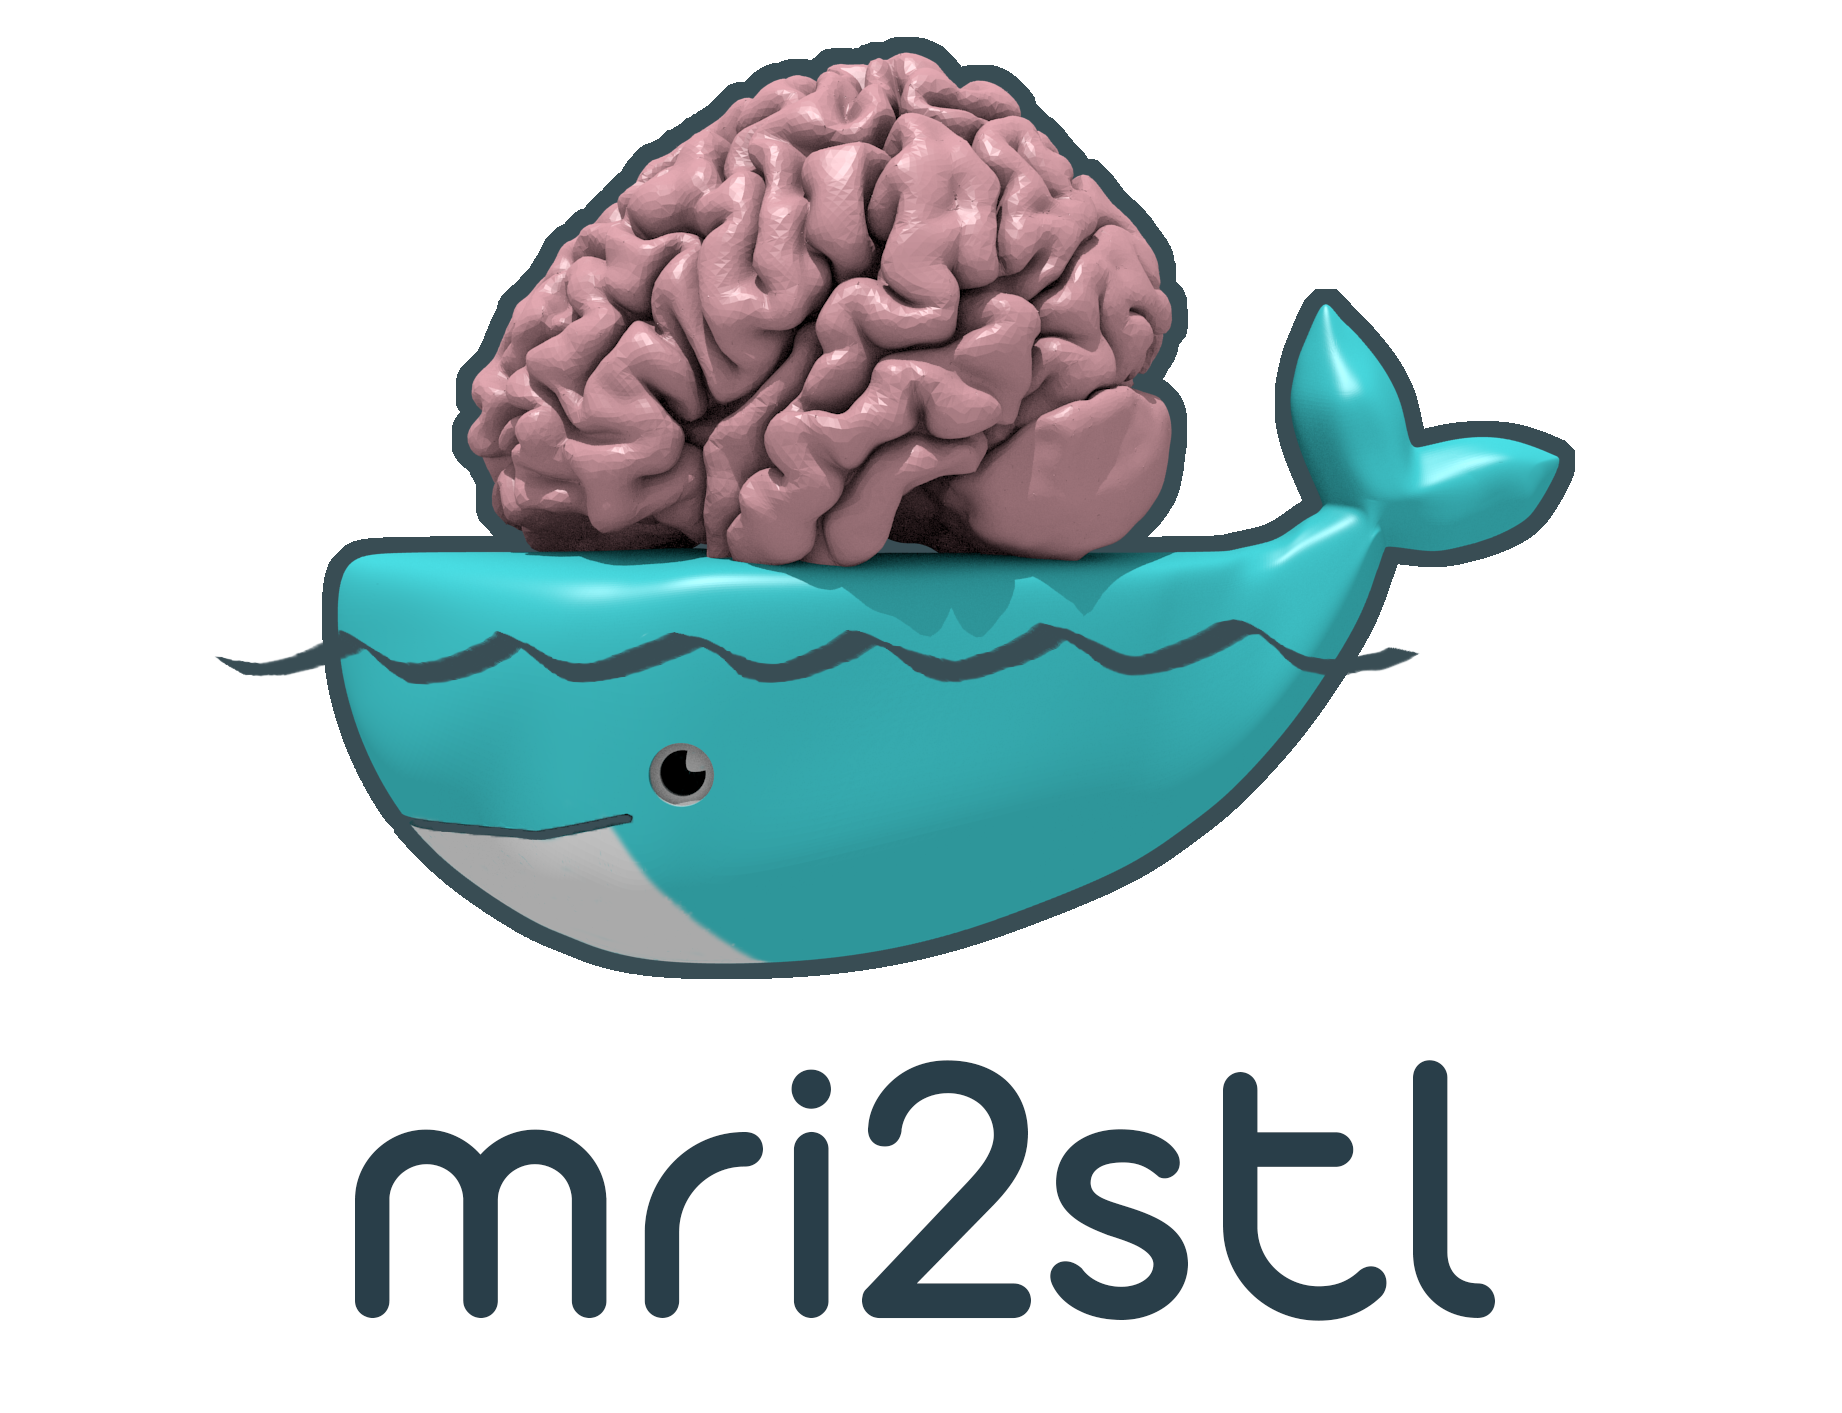
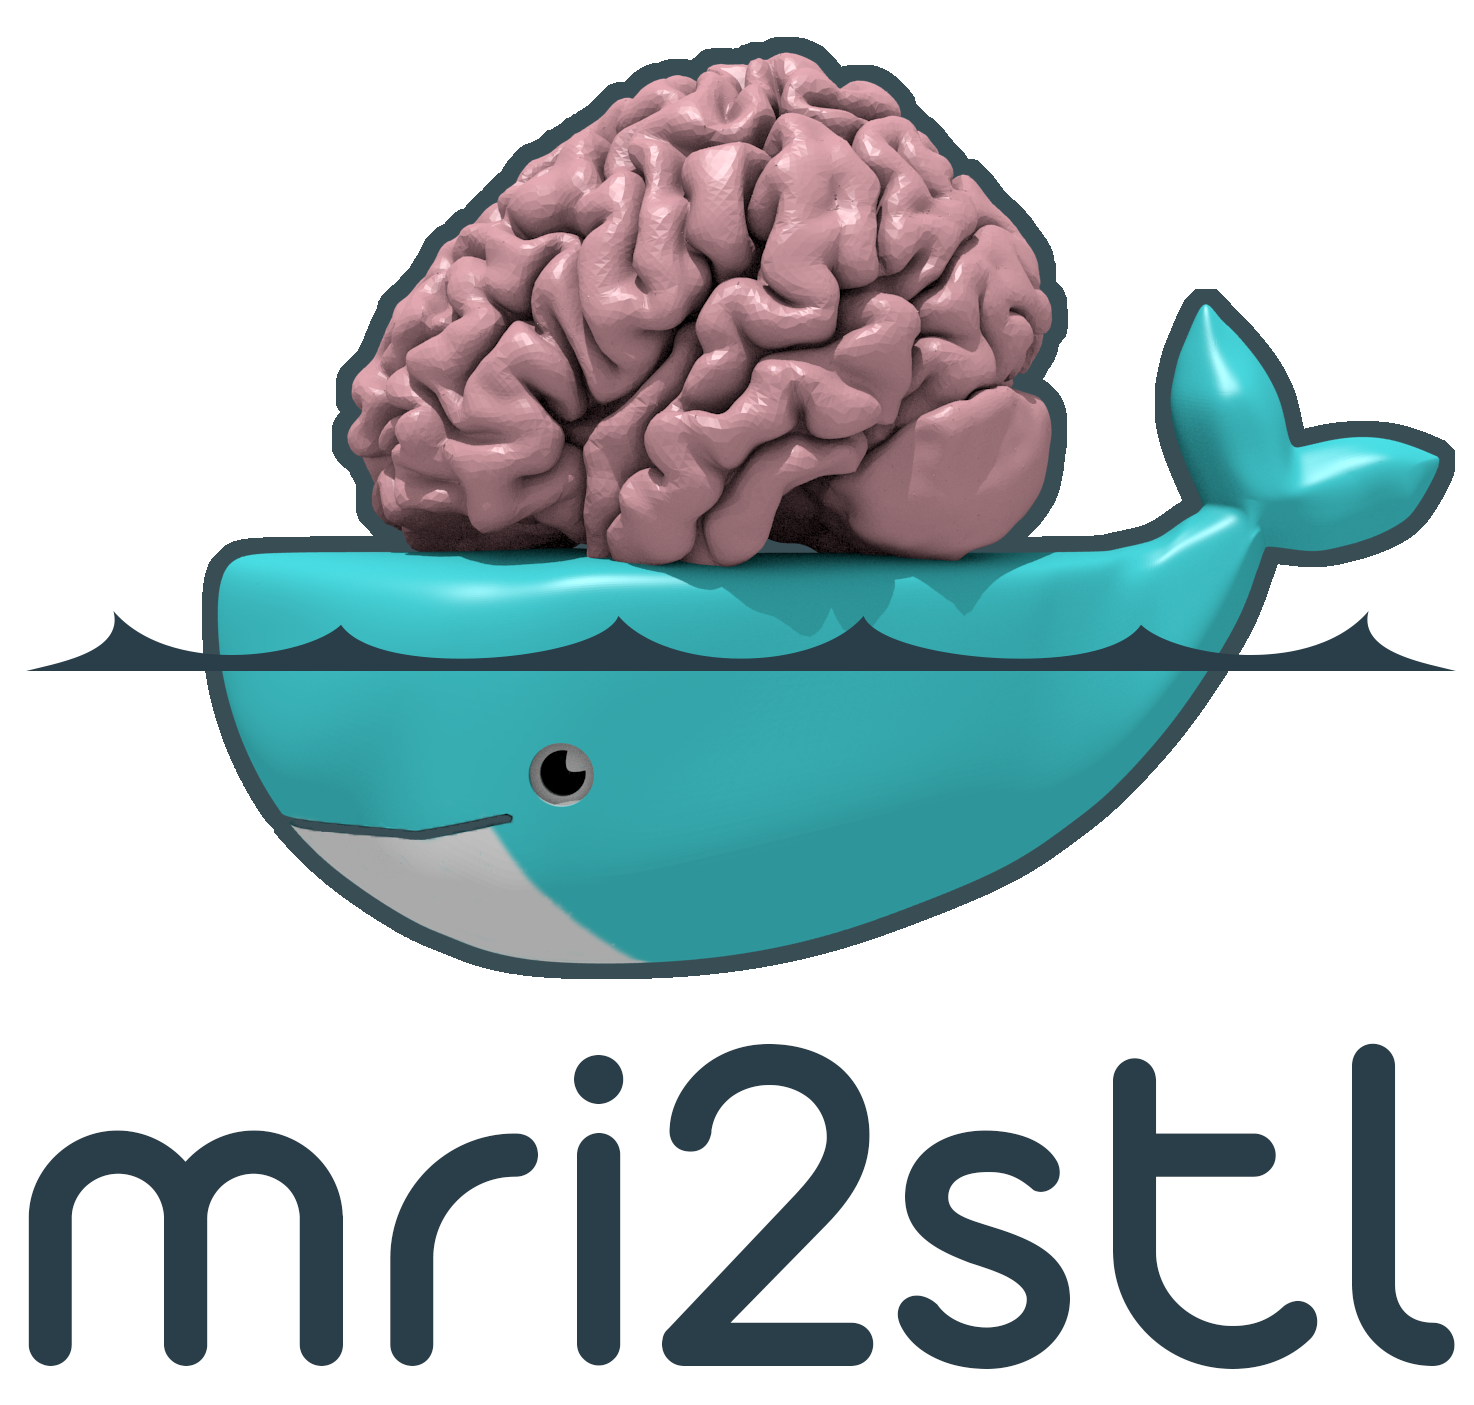
Update Image

diff --git a/README.md b/README.md
@@ -3,7 +3,7 @@ A Docker image for converting head MRI data to a 3D surface model of the brain.
 
 [Modified from miykael/3dprintyourbrain](https://github.com/miykael/3dprintyourbrain)
 
-<a href="https://www.thingiverse.com/thing:3632075/"><p align="center"><img src="https://github.com/nimaid/mri2stl/raw/master/images/mri2stl.png" width=800px /></p></a>
+<a href="https://www.thingiverse.com/thing:3632075/"><p align="center"><img src="https://github.com/nimaid/mri2stl/raw/master/images/mri2stl.png" width=600px /></p></a>
 
 ## Instructions
 Install Docker for your platform. This will literally be the hardest step of the whole process, and it's different for each OS. You can learn more [here](https://hub.docker.com/), and through Google.
